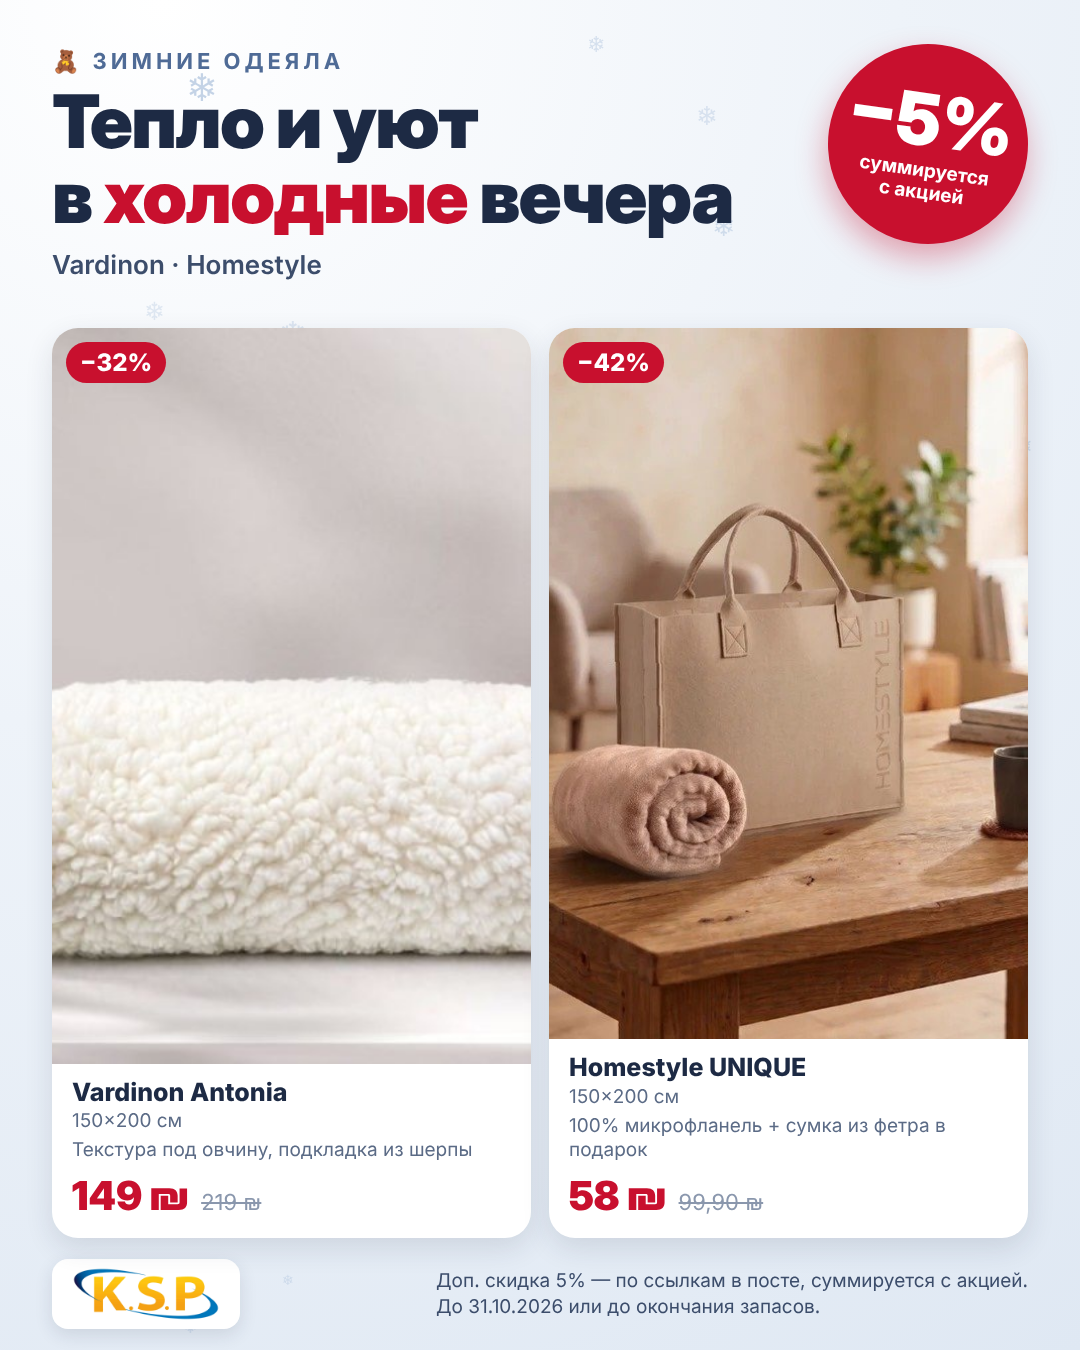
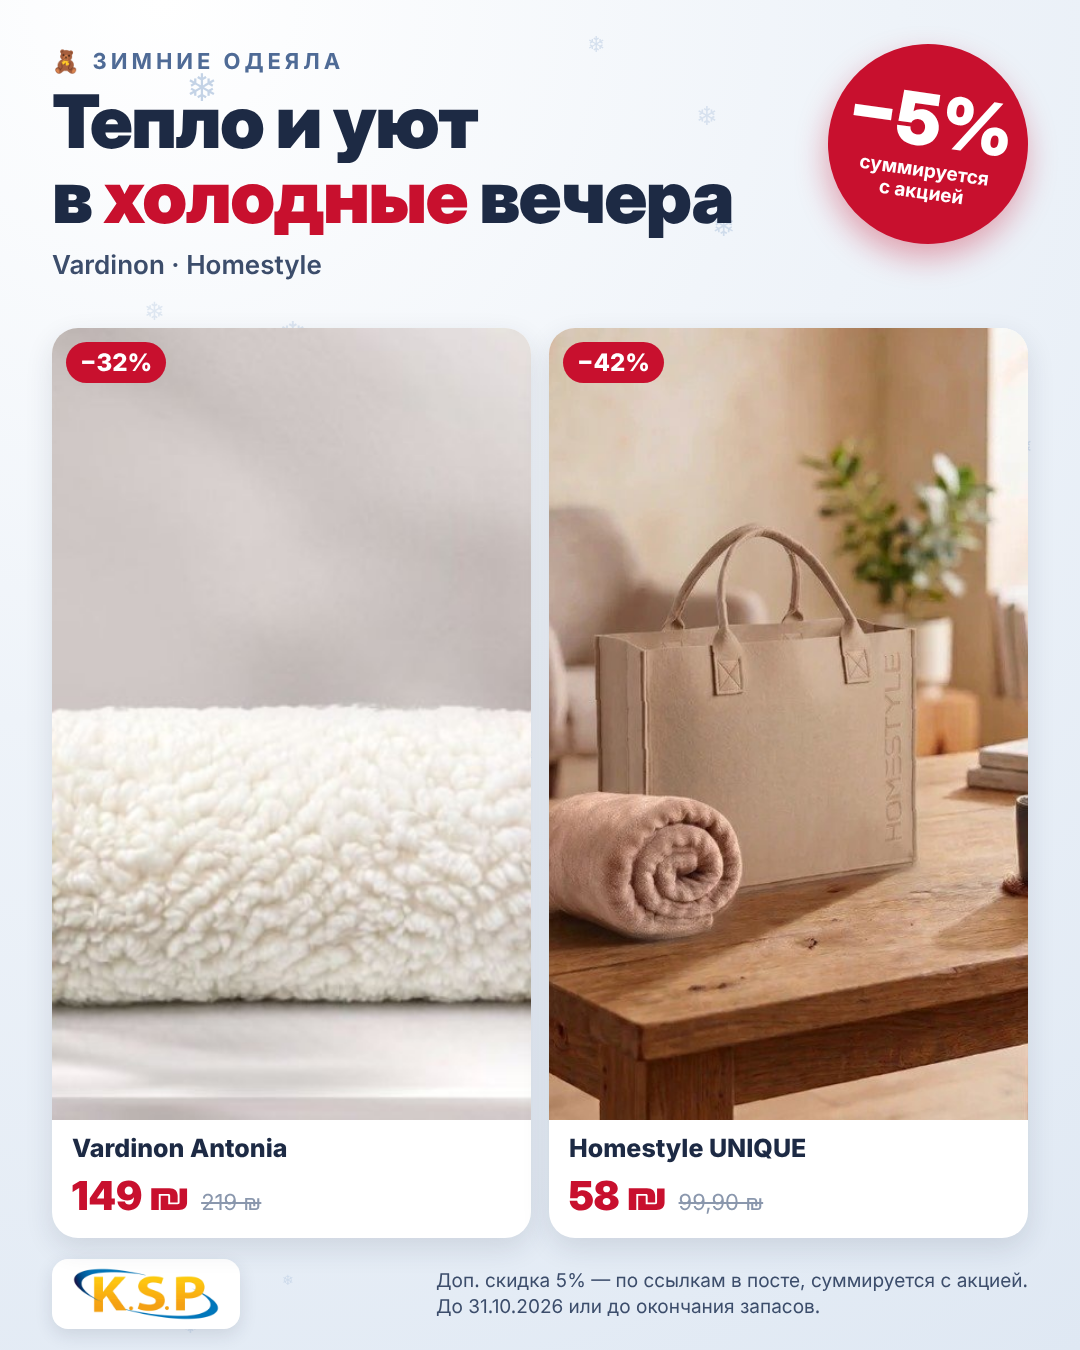
Show only brand and product name on promo collage cards
Claude-Session: https://claude.ai/code/session_015RWzb5ejVMDSG7K16Gg5hT

Changed region(s): [[0.0306, 0.2178, 0.9778, 0.8711]]

diff --git a/ksp-winter-promo/render.js b/ksp-winter-promo/render.js
@@ -10,11 +10,11 @@ const img = (f) => 'file://' + path.join(dir, 'src', f);
 const P = {
   antonia: { name: 'Vardinon Antonia', size: '150×200 см', note: 'Текстура под овчину, подкладка из шерпы', img: 'antonia-blanket.jpg', fit: 'cover', now: '149', was: '219' },
   unique: { name: 'Homestyle UNIQUE', size: '150×200 см', note: '100% микрофланель + сумка из фетра в подарок', img: 'unique-blanket.jpg', fit: 'cover', pos: '50% 60%', now: '58', was: '99,90' },
-  vardinon: { name: 'Vardinon пуховое', size: '200×220 см', note: '88% гусиное перо, 12% пух, хлопок перкаль', img: 'vardinon-down.jpg', fit: 'cover', pos: '50% 40%', now: '436', was: '499' },
+  vardinon: { name: 'Vardinon двуспальное одеяло', size: '200×220 см', note: '88% гусиное перо, 12% пух, хлопок перкаль', img: 'vardinon-down.jpg', fit: 'cover', pos: '50% 40%', now: '436', was: '499' },
   wind: { name: 'Homestyle Wind', size: '150×200 см', note: 'Перо и пух в дышащем чехле из перкаля', img: 'wind-down.jpg', fit: 'contain', now: '163', was: '249' },
   hudson: { name: 'Homestyle Hudson', size: '4 полотенца 70×130 см', note: '100% хлопок, отлично впитывают', img: 'hudson-towels.jpg', fit: 'contain', now: '199', was: '249' },
   popcorn: { name: 'Homestyle Popcorn', size: 'Халат из микрофланели', note: 'Тёплый, в разных цветах', img: 'popcorn-robe.jpg', fit: 'contain', now: '51', was: '89,90' },
-  amore: { name: 'Little Amore', size: 'Детский махровый халат', note: 'В разных цветах', img: 'little-amore-robe.jpg', fit: 'contain', now: '110', was: '155' },
+  amore: { name: 'Little Amore детский махровый халат', size: 'Детский махровый халат', note: 'В разных цветах', img: 'little-amore-robe.jpg', fit: 'contain', now: '110', was: '155' },
 };
 const num = (s) => parseFloat(s.replace(',', '.'));
 const pct = (p) => Math.round((1 - num(p.now) / num(p.was)) * 100);
@@ -69,8 +69,7 @@ const card = (p, { area, details = true, row = false } = {}) => `
 <div class="card${row ? ' row' : ''}" style="grid-area:${area}">
   <div class="ph"><img class="${p.fit}" style="object-position:${p.pos || '50% 50%'}" src="${img(p.img)}"><div class="off">−${pct(p)}%</div></div>
   <div class="info">
-    <div class="n">${p.name}</div><div class="s">${p.size}</div>
-    ${details ? `<div class="d">${p.note}</div>` : ''}
+    <div class="n">${p.name}</div>
     <div class="price"><span class="now">${p.now} ₪</span><span class="was">${p.was} ₪</span></div>
   </div>
 </div>`;
